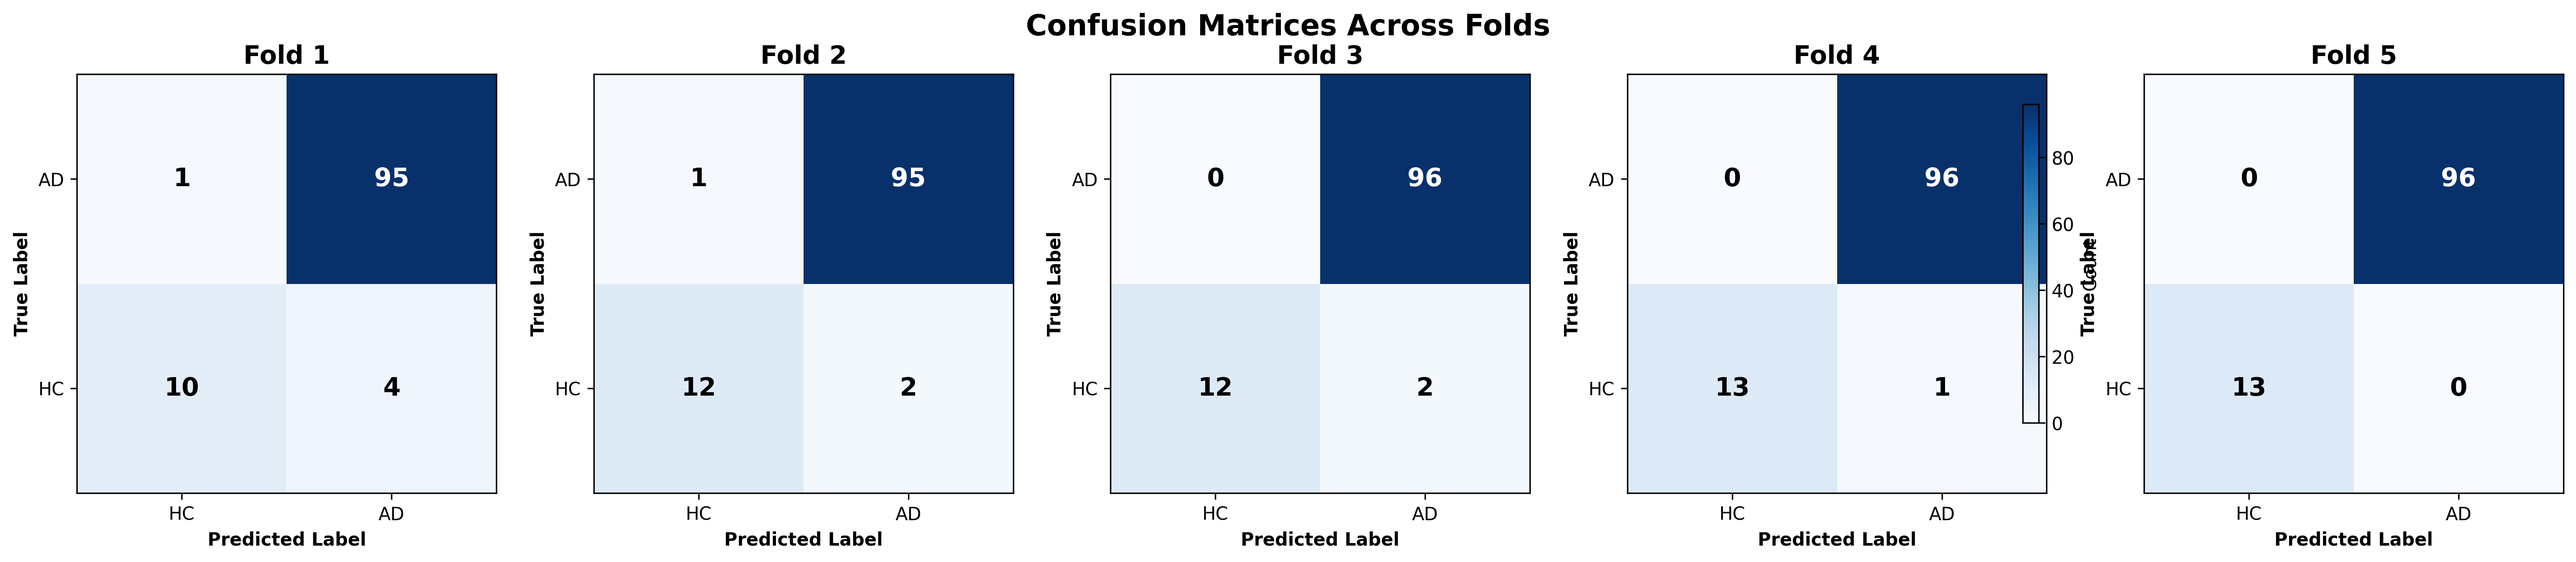
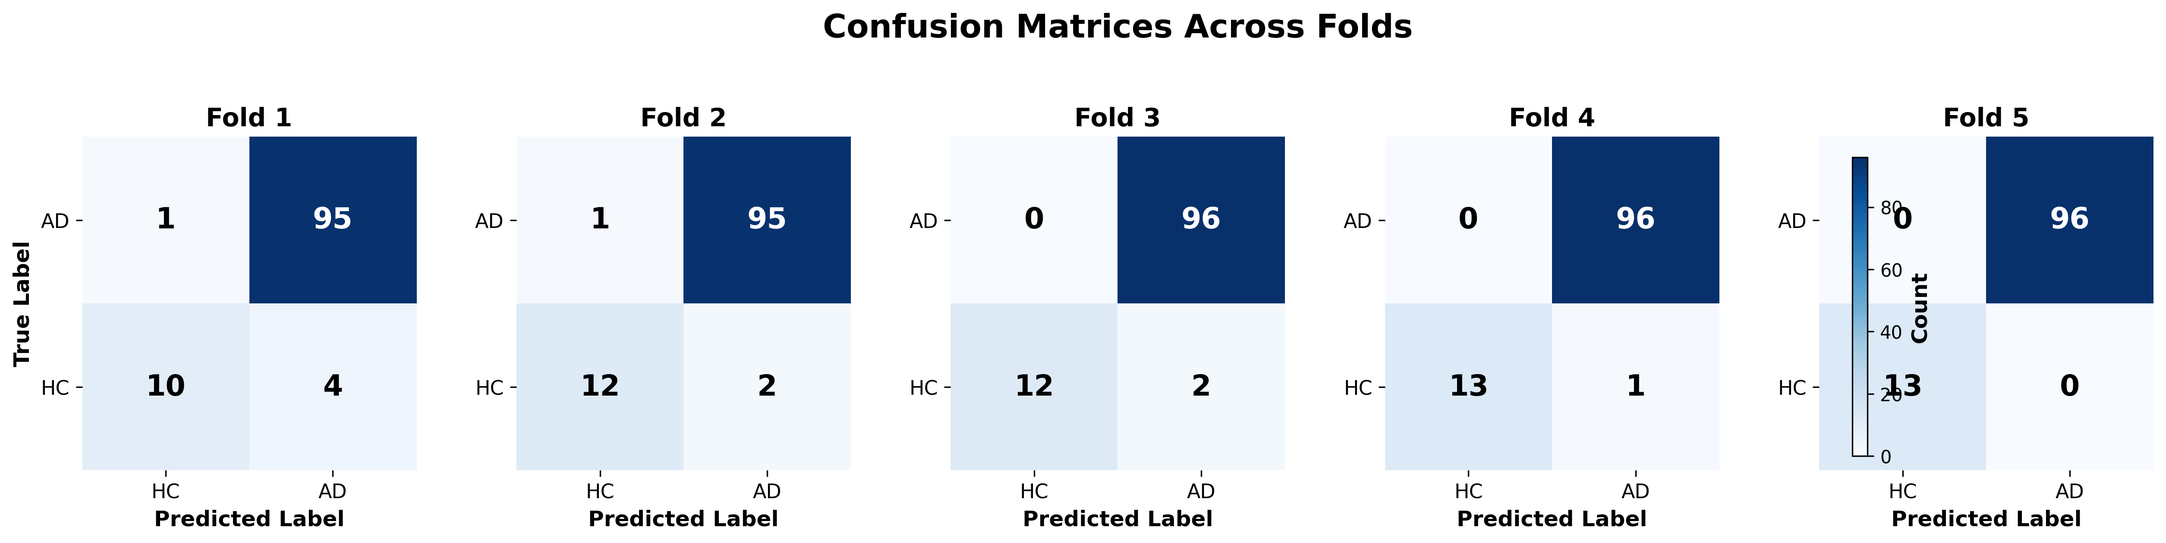
Fix confusion matrices visualization
- Improved layout and spacing to remove visual artifacts
- Added consistent colorbar scale across all folds
- Enhanced text sizing and positioning
- Cleaner appearance with better subplot management
- Fixed overlapping components in the plot

diff --git a/eeg_alzheimer_detection.py b/eeg_alzheimer_detection.py
@@ -1157,7 +1157,7 @@ def plot_confusion_matrices_across_folds(fold_results, config):
     print(f"\nGenerating confusion matrices across folds...")
     
     n_folds = len(fold_results)
-    fig, axes = plt.subplots(1, n_folds, figsize=(4*n_folds, 4))
+    fig, axes = plt.subplots(1, n_folds, figsize=(4*n_folds, 5))
     
     if n_folds == 1:
         axes = [axes]
@@ -1165,48 +1165,60 @@ def plot_confusion_matrices_across_folds(fold_results, config):
     # Color map for confusion matrices
     cmap = plt.cm.Blues
     
+    # Find global max for consistent colorbar scale
+    global_max = max([result['confusion_matrix'].max() for result in fold_results])
+    
     for i, result in enumerate(fold_results):
         ax = axes[i]
         cm = result['confusion_matrix']
         
-        # Create heatmap
-        im = ax.imshow(cm, interpolation='nearest', cmap=cmap, vmin=0, vmax=cm.max())
+        # Create heatmap with consistent scale
+        im = ax.imshow(cm, interpolation='nearest', cmap=cmap, vmin=0, vmax=global_max)
         
         # Add text annotations
-        thresh = cm.max() / 2.
+        thresh = global_max / 2.
         for row in range(cm.shape[0]):
             for col in range(cm.shape[1]):
                 ax.text(col, row, format(cm[row, col], 'd'),
                        ha="center", va="center",
                        color="white" if cm[row, col] > thresh else "black",
-                       fontsize=14, fontweight='bold')
+                       fontsize=16, fontweight='bold')
         
         # Labels and title
-        ax.set_xlabel('Predicted Label', fontweight='bold')
-        ax.set_ylabel('True Label', fontweight='bold')
+        ax.set_xlabel('Predicted Label', fontweight='bold', fontsize=12)
+        if i == 0:  # Only add y-label to the first subplot
+            ax.set_ylabel('True Label', fontweight='bold', fontsize=12)
         ax.set_title(f'Fold {i+1}', fontweight='bold', fontsize=14)
         
         # Set tick labels
         ax.set_xticks([0, 1])
         ax.set_yticks([0, 1])
-        ax.set_xticklabels(['HC', 'AD'])
-        ax.set_yticklabels(['HC', 'AD'])
+        ax.set_xticklabels(['HC', 'AD'], fontsize=11)
+        ax.set_yticklabels(['HC', 'AD'], fontsize=11)
         
-        # Add grid
+        # Clean appearance
         ax.set_xlim(-0.5, 1.5)
         ax.set_ylim(-0.5, 1.5)
+        
+        # Remove spines for cleaner look
+        for spine in ax.spines.values():
+            spine.set_visible(False)
     
-    # Add colorbar
-    fig.colorbar(im, ax=axes, shrink=0.8, label='Count')
+    # Add a single colorbar on the right
+    cbar = fig.colorbar(im, ax=axes, shrink=0.6, aspect=20, pad=0.02)
+    cbar.set_label('Count', fontweight='bold', fontsize=12)
+    cbar.ax.tick_params(labelsize=10)
     
-    # Overall title
-    fig.suptitle('Confusion Matrices Across Folds', fontsize=16, fontweight='bold')
+    # Overall title with more space
+    fig.suptitle('Confusion Matrices Across Folds', fontsize=18, fontweight='bold', y=0.95)
     
-    plt.tight_layout()
+    # Adjust layout to prevent overlapping
+    plt.subplots_adjust(top=0.85, bottom=0.15, left=0.1, right=0.9, wspace=0.3)
+    
     cm_path = os.path.join(config.OUTPUT_DIR, 'confusion_matrices.png')
-    plt.savefig(cm_path, dpi=300, bbox_inches='tight')
+    plt.savefig(cm_path, dpi=300, bbox_inches='tight', facecolor='white', edgecolor='none')
     print(f"Saved confusion matrices plot: {cm_path}")
-    plt.show()
+    plt.close()  # Close to prevent display issues
 
 def save_results_log(results, X, y, config):
     """Save detailed results to a log file"""
@@ -1244,11 +1256,7 @@ def save_results_log(results, X, y, config):
     return log_path
 
 def main():
-    """Main execution function"""
-    print("="*60)
-    print("HYBRID CNN-LSTM FOR ALZHEIMER'S DISEASE DETECTION")
-    print("="*60)
-
+    
     # Check if data directory exists
     if not os.path.exists(config.RAW_DATA_DIR):
         print(f"\nError: Data directory not found: {config.RAW_DATA_DIR}")
